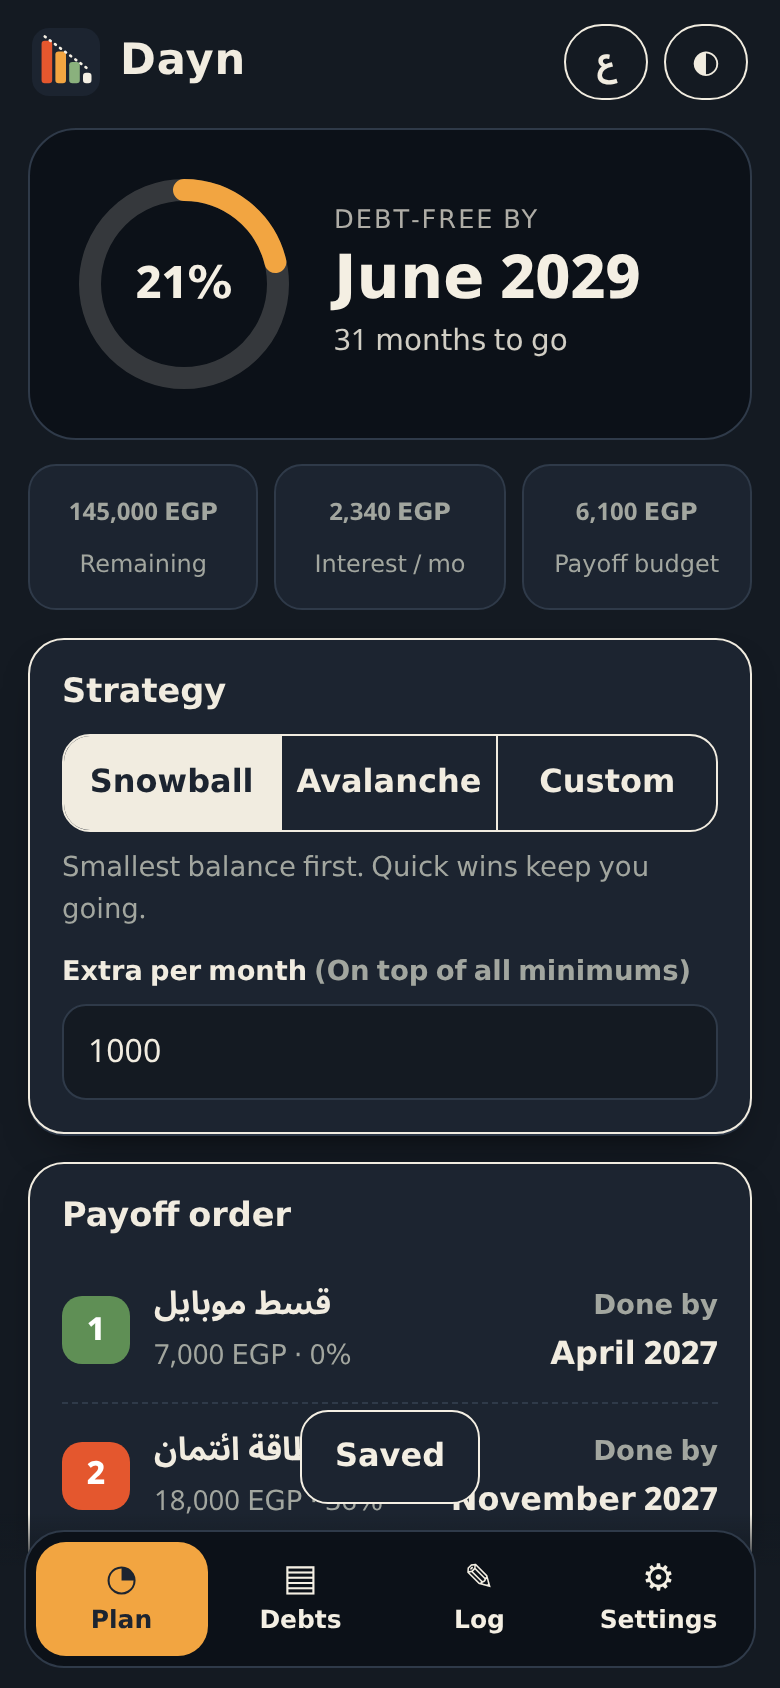
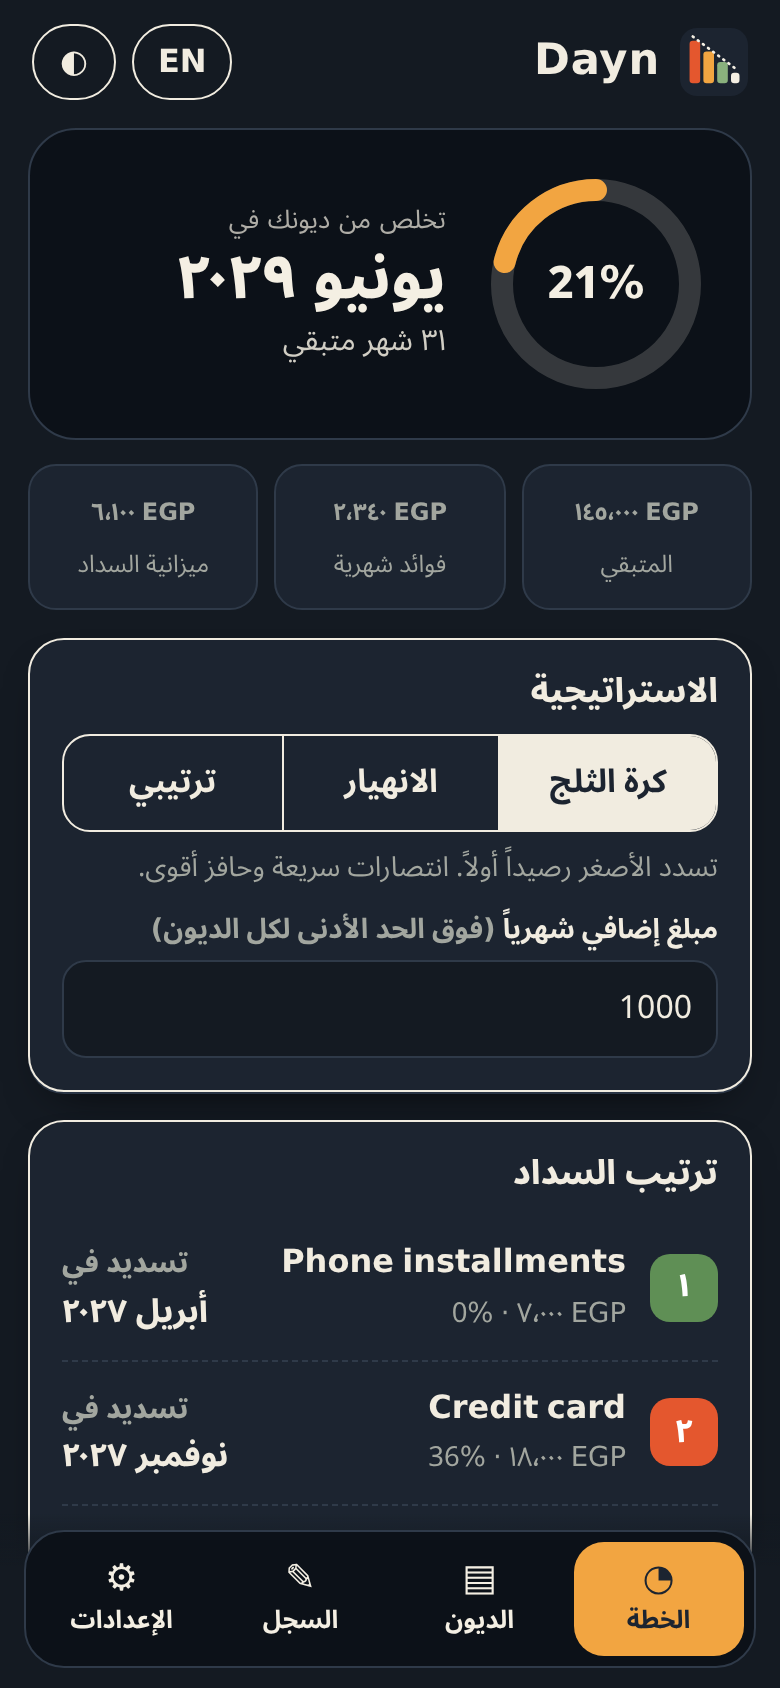
Round 5: savings sentence order for RTL, one-row milestone badges

diff --git a/app.js b/app.js
@@ -14,7 +14,7 @@
       customD: 'أنت تحدد الترتيب بالأسهم.',
       strategy: 'الاستراتيجية', extra: 'مبلغ إضافي شهرياً', extraH: 'فوق الحد الأدنى لكل الديون',
       whatIf: 'ماذا لو؟', whatIfD: 'جرب مبلغاً إضافياً بدون حفظه', useThis: 'اعتمد هذا المبلغ',
-      earlier: 'أبكر بـ', months: 'شهر', saveInt: 'توفر في الفوائد', vsMin: 'مقارنة بالحد الأدنى فقط',
+      earlier: 'أبكر بـ', months: 'شهر', saveInt: 'توفير في الفوائد', vsMin: 'مقارنة بالحد الأدنى فقط',
       order: 'ترتيب السداد', payoffOn: 'تسديد في', compare: 'مقارنة الاستراتيجيات',
       date: 'تاريخ الانتهاء', interest: 'إجمالي الفوائد', stratName: 'الاستراتيجية',
       chartT: 'رصيدك المتوقع', withPlan: 'مع خطتك', minOnly: 'حد أدنى فقط', now: 'الآن',
@@ -204,7 +204,7 @@
 
     // chart
     h += '<div class="card"><div class="card-h"><h2>' + t('chartT') + '</h2></div>' + chart(sum) + '<div class="legend"><span><i style="background:var(--red)"></i>' + t('withPlan') + '</span><span><i style="background:var(--mute);opacity:.6"></i>' + t('minOnly') + '</span></div>';
-    if (sum.interestSaved !== null && state.extra > 0) h += '<p class="small" style="margin:10px 0 0"><b>' + money(sum.interestSaved) + '</b> ' + t('saveInt') + ' · <b class="num">' + nInt(sum.monthsSaved) + '</b> ' + t('months') + ' ' + t('earlier') + ' ' + t('vsMin') + '</p>';
+    if (sum.interestSaved !== null && state.extra > 0) h += '<p class="small" id="saved-line" style="margin:10px 0 0"><b>' + money(sum.interestSaved) + '</b> ' + t('saveInt') + '<br>' + t('earlier') + ' <b class="num">' + nInt(sum.monthsSaved) + '</b> ' + t('months') + ' (' + t('vsMin') + ')</p>';
     h += '</div>';
 
     h += compareCard();

diff --git a/tests/browser.test.js b/tests/browser.test.js
@@ -70,6 +70,7 @@ function ok(c, m) { if (!c) { throw new Error('FAIL: ' + m); } n++; console.log(
   await p.click('[data-act="use-whatif"]');
   const date2 = await txt('#free-date');
   ok(date2 !== '∞', 'what-if applied: ' + date2);
+  ok(!!(await p.$('#saved-line')), 'interest-saved line shown when extra > 0');
   // copy summary
   await p.evaluate(() => { window.__copied = null; Object.defineProperty(navigator, 'clipboard', { value: { writeText: x => { window.__copied = x; return Promise.resolve(); } }, configurable: true }); });
   await p.click('[data-act="copy"]');
@@ -171,6 +172,7 @@ function ok(c, m) { if (!c) { throw new Error('FAIL: ' + m); } n++; console.log(
   await nav('plan');
   ok(!!(await p.$('.hero')) && (await txt('#free-date')) !== '∞', 'sample data gives a plan');
   if (shots) {
+    await new Promise(r => setTimeout(r, 2800));
     await p.evaluate(() => window.scrollTo(0, 0));
     await p.screenshot({ path: shots + '/plan-ar.png' });
     await p.screenshot({ path: shots + '/plan-ar-full.png', fullPage: true });

diff --git a/style.css b/style.css
@@ -92,8 +92,8 @@ input[type=range]{padding:0;accent-color:var(--red);min-height:32px}
 
 /* motivation */
 .quote{font-size:1.1rem;font-weight:700;line-height:1.6;border-inline-start:5px solid var(--amber);padding-inline-start:12px}
-.badges{display:flex;gap:8px;flex-wrap:wrap;margin-top:12px}
-.badge{border:1.5px solid var(--line);border-radius:14px;padding:8px 12px;text-align:center;min-width:64px;color:var(--mute);background:transparent}
+.badges{display:flex;gap:6px;flex-wrap:wrap;margin-top:12px}
+.badge{flex:1 1 56px;border:1.5px solid var(--line);border-radius:14px;padding:8px 4px;text-align:center;font-size:.8rem;color:var(--mute);background:transparent}
 .badge b{display:block;font-size:1.1rem}
 .badge.on{background:var(--amber);border-color:var(--ink);color:#1c2430}
 .flame{font-size:1.3rem}
